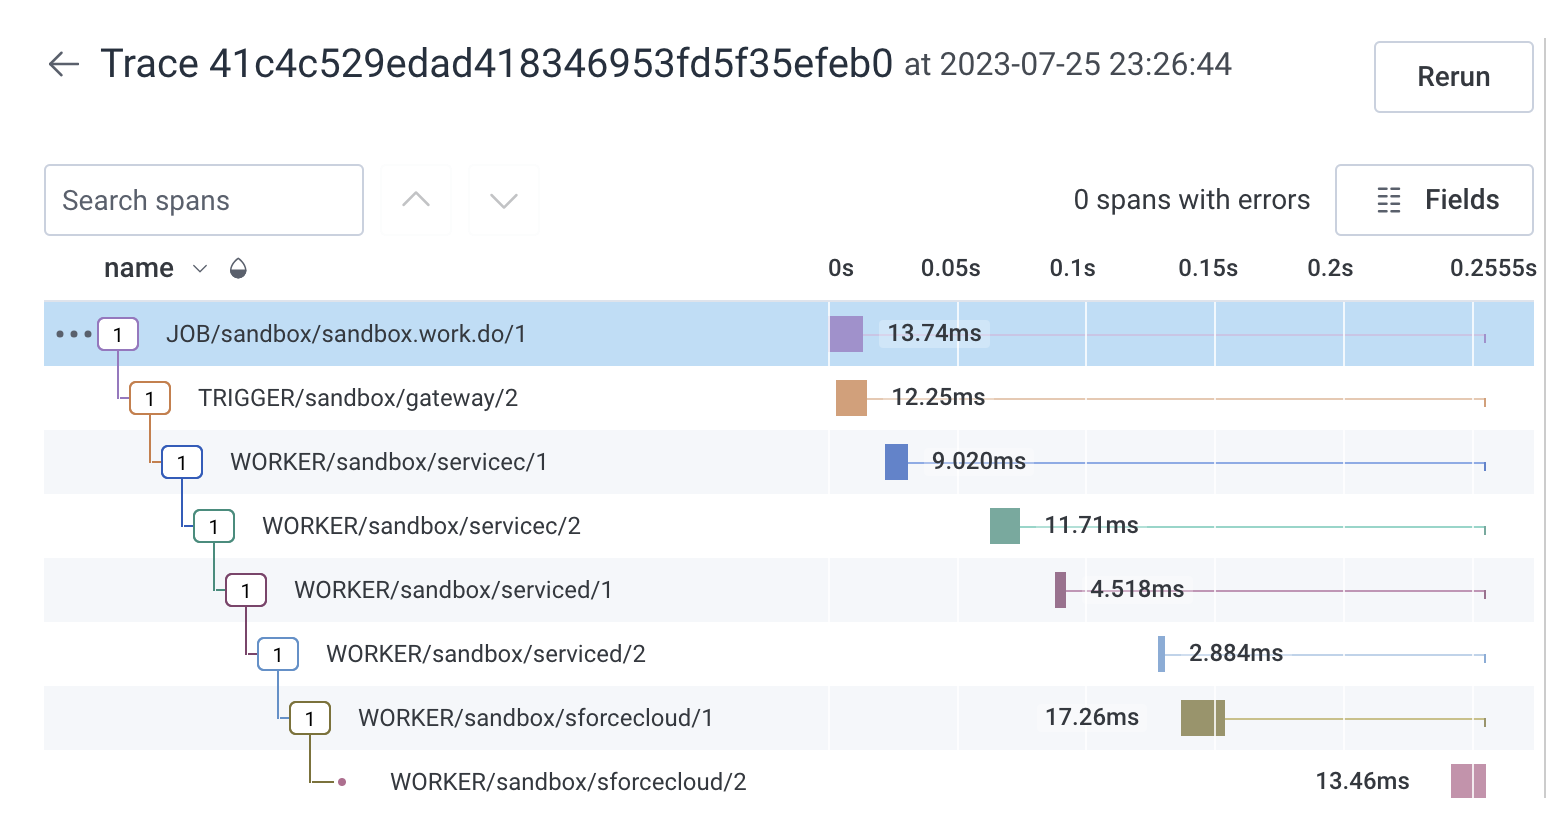
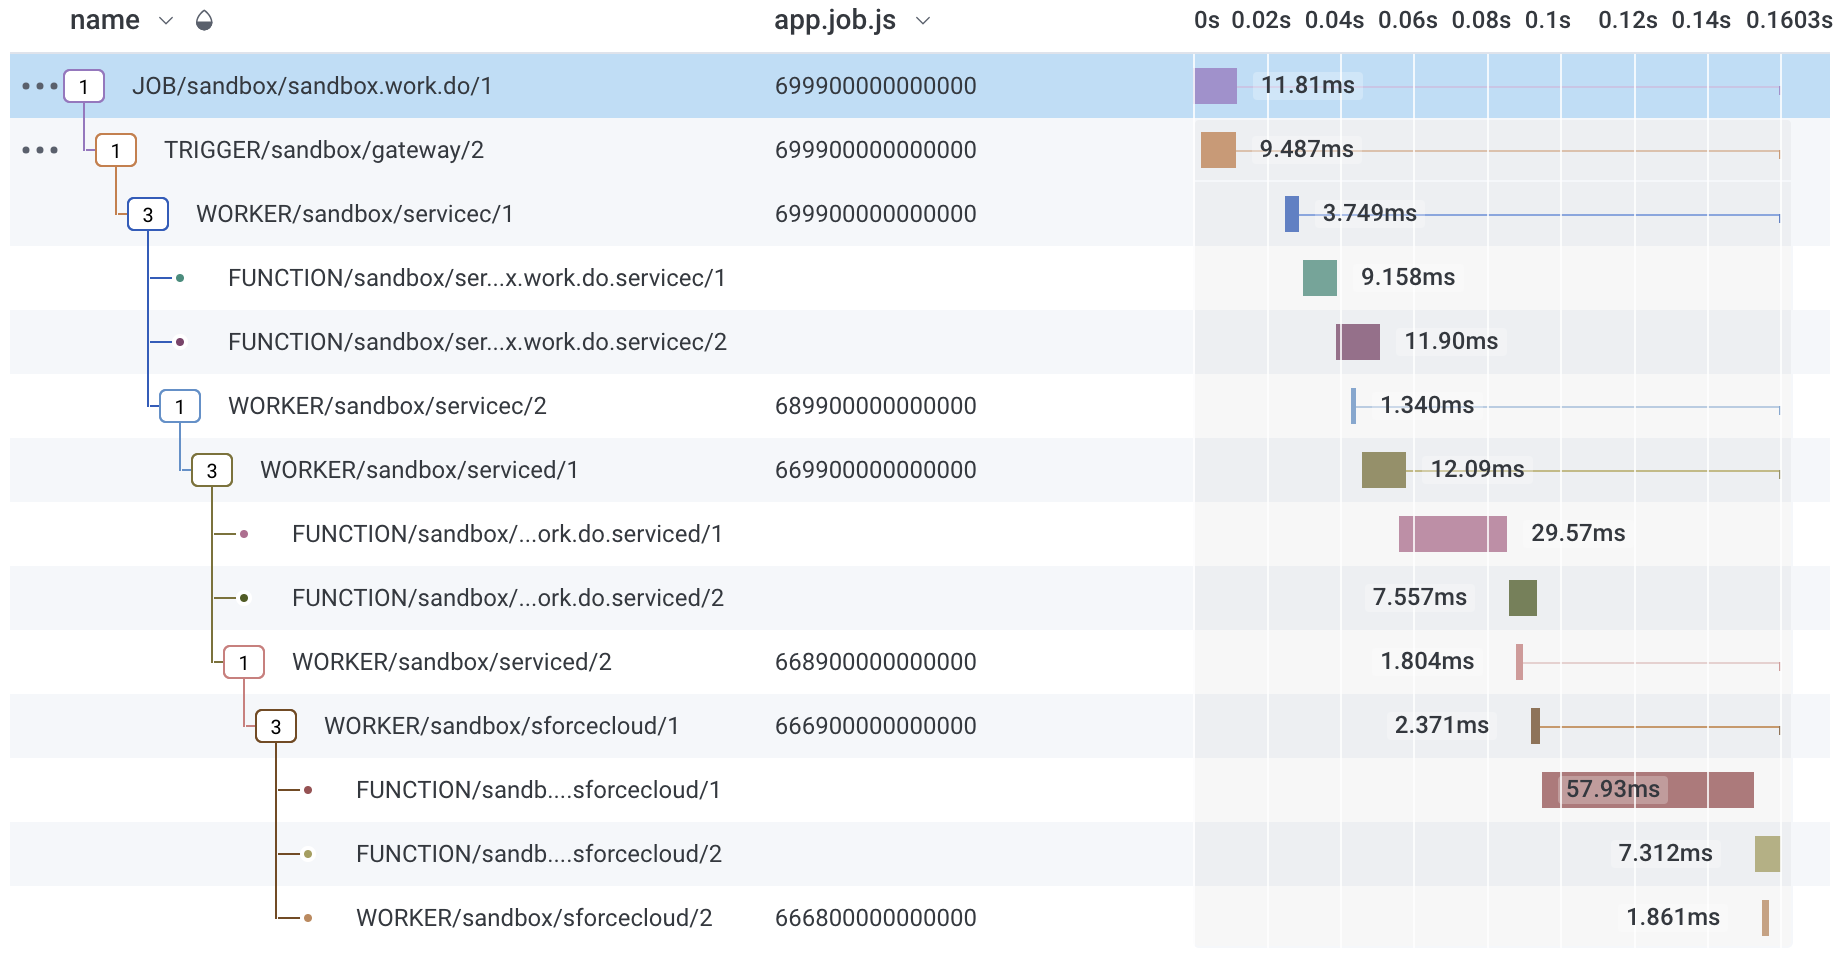
telemetry graph (#77)

diff --git a/docs/system_lifecycle.md b/docs/system_lifecycle.md
@@ -139,11 +139,12 @@ const jobId = await pubSubDB.pub(topic, payload, context);
 PubSubDB emits the `trace` (trc) and `span` (spn) IDs to registered worker functions. Add telemetry logging to your worker functions (perhaps it's already there) for a full, system-wide view of the running workflow as a connected graph of activities.
 
 ### Dashboards and Alerts
-PubSubDB tracks all *span* relationships, emitting them to the telemetry system as a set of nested activities that naturally reform into the original workflow graph. Meter critical activities with alarms and alerts; use the telemetry data to drive your own custom dashboards.
+PubSubDB tracks telemetry *spans* and *traces*, emitting them to the telemetry backend as a set of nested activities that naturally reform into the original workflow graph. Meter critical activities with alarms and alerts; use the telemetry data to drive your own custom dashboards.
 
-In the following workflow, a sequence of 4 duplexed activities ran in succession over the span of 255ms.
+In the following dashboard (HoneyComb), a sequence of 4 duplexed activities are displayed along with the worker functions they orchestrate. The full duration was 160ms with the bulk of the processing time spent executing the `sforcecloud` worker function (57.93ms).
 
 **HoneyComb Trace UI**
+
 <img src="./img/telemetry.png" alt="Open Telemetry" style="max-width:600px;width:600px;">
 
 
